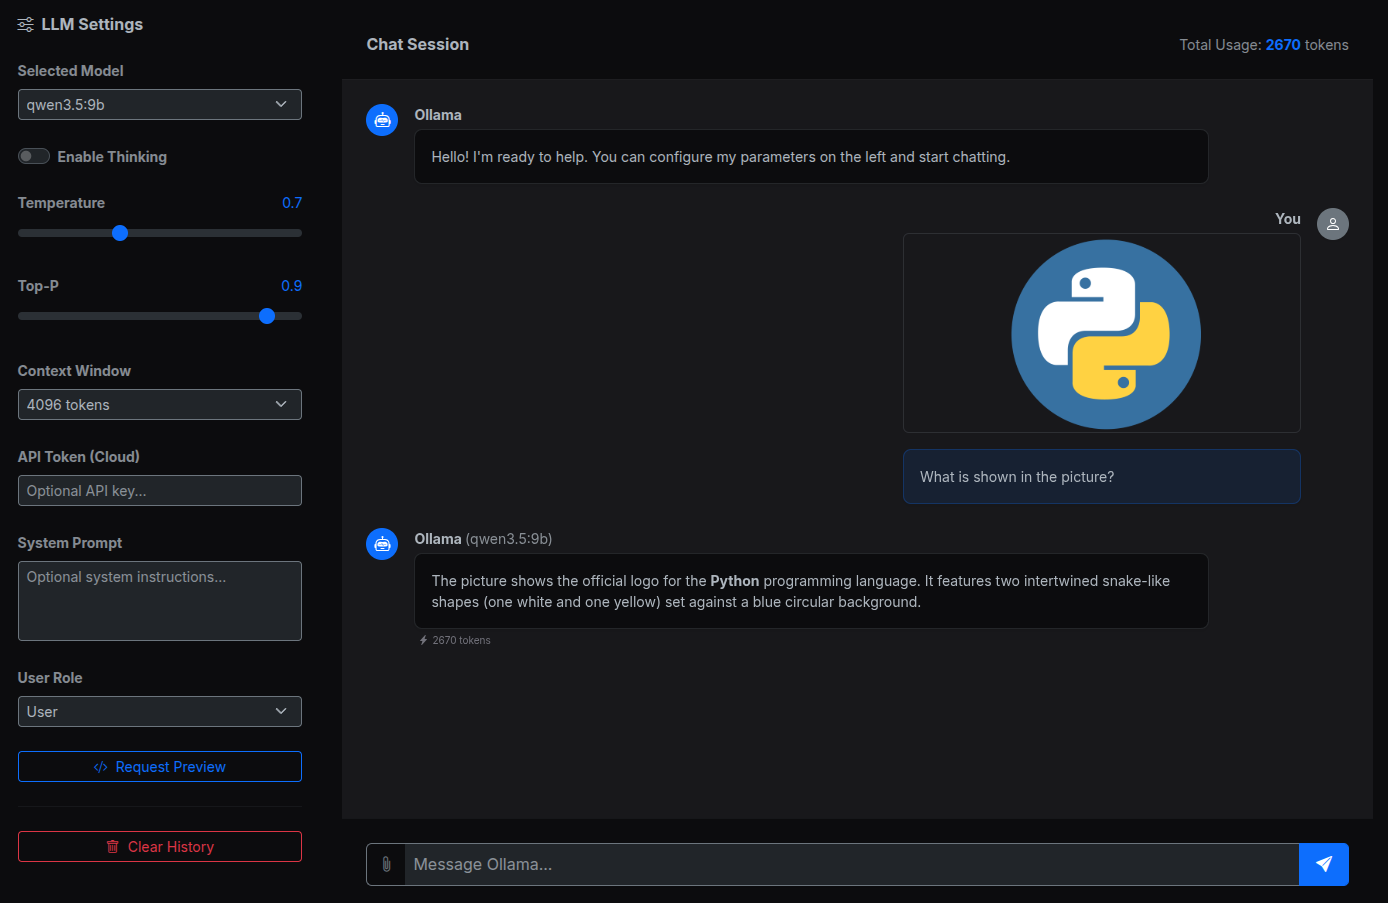
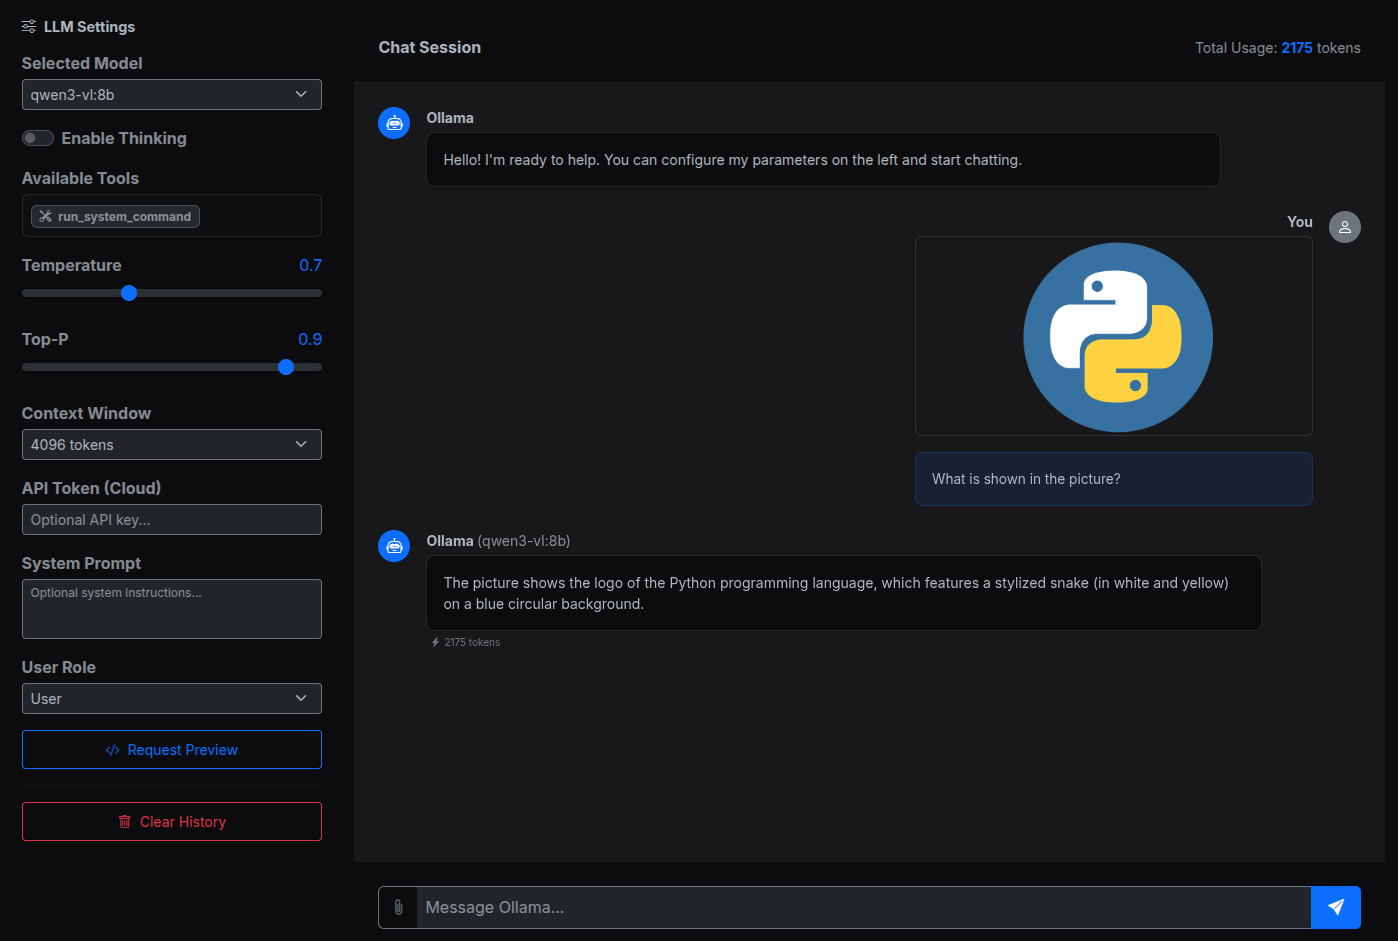
feat(core/ollama): implement advanced chat features and UI improvements
- Add 'jsonify' template filter for tool argument formatting
- Update Ollama module to include streaming markdown and tool support
- Update documentation screenshots for new chat and tool features
- Adjust LLM settings sidebar layout for better fit and visibility

diff --git a/core/templatetags/core_tags.py b/core/templatetags/core_tags.py
@@ -1,7 +1,12 @@
+import json
 from django import template
 from core.utils import get_primary_ip
 
 register = template.Library()
+
+@register.filter
+def jsonify(value):
+    return json.dumps(value)
 
 @register.simple_tag
 def current_primary_ip():
